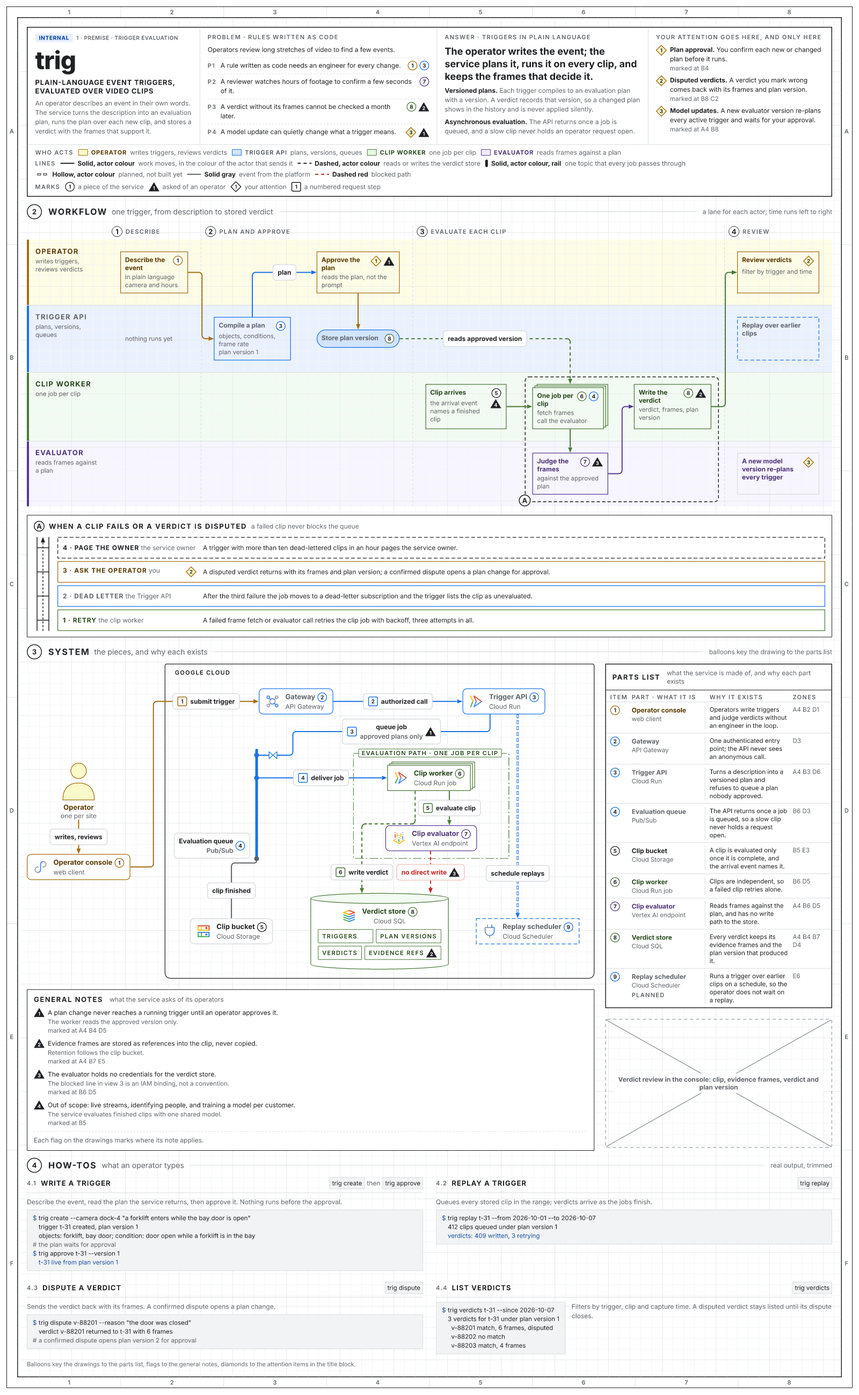
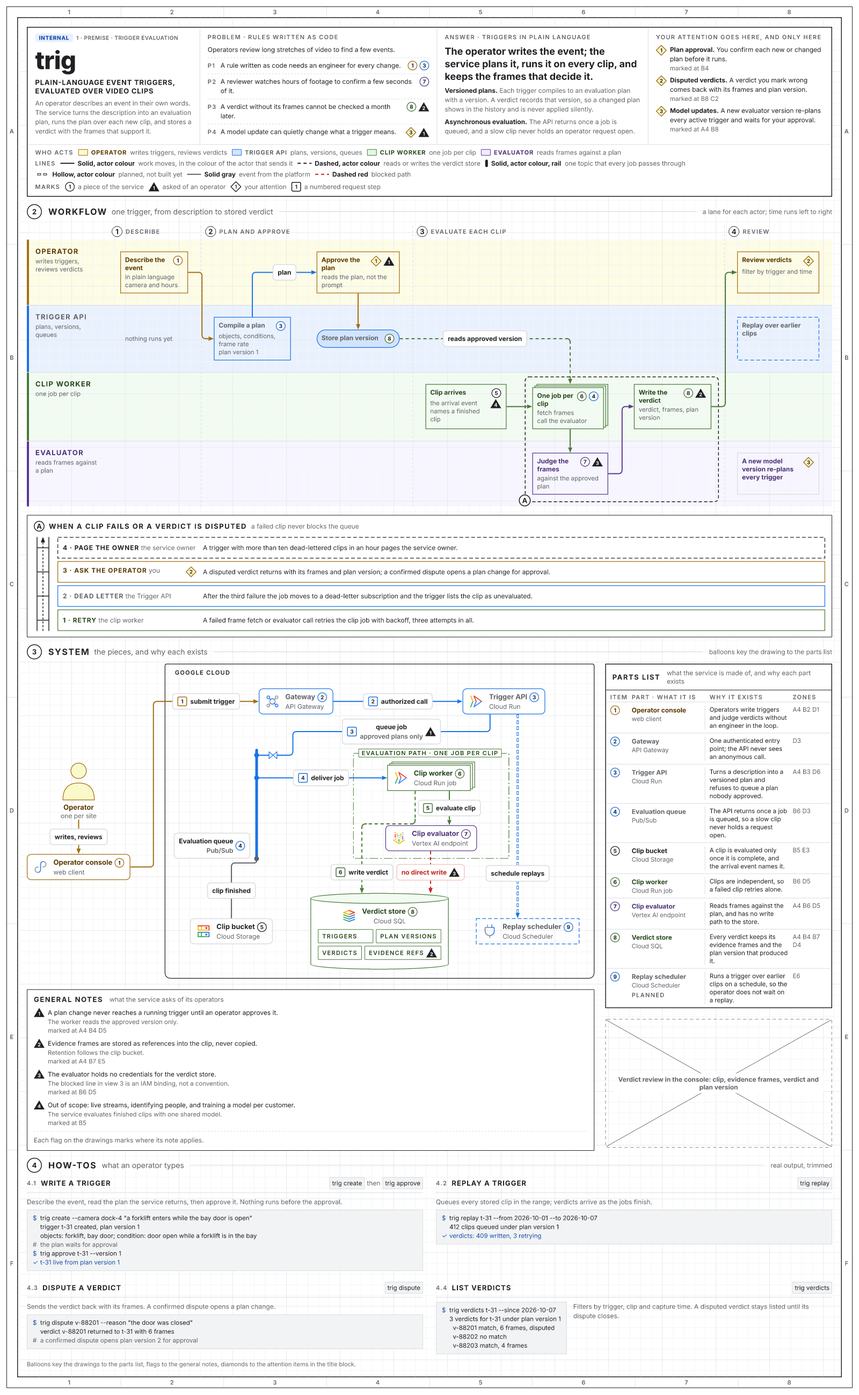
fix(render): mark a terminal's ok lines so they read apart from output in every theme (#93)

diff --git a/crates/stencil-render/tests/how_to_paint.rs b/crates/stencil-render/tests/how_to_paint.rs
@@ -92,6 +92,7 @@ fn assert_first_item_paint(theme: &Theme, svg: &str, label: &str) -> usize {
         ),
         ("#", terminal.comment.as_str()),
         ("the plan waits for approval", terminal.comment.as_str()),
+        ("\u{2713}", terminal.prompt.as_str()),
         ("t-31 live from plan version 1", terminal.prompt.as_str()),
     ];
     for (content, ink) in expected {
@@ -99,11 +100,11 @@ fn assert_first_item_paint(theme: &Theme, svg: &str, label: &str) -> usize {
     }
     let prompts = common::children_named(item, "text")
         .into_iter()
-        .filter(|text| matches!(text.text(), Some("$" | "#")))
+        .filter(|text| matches!(text.text(), Some("$" | "#" | "\u{2713}")))
         .count();
     assert_eq!(
-        prompts, 3,
-        "{label}: two commands and one comment draw a prompt"
+        prompts, 4,
+        "{label}: two commands, one comment and one ok line draw a prompt"
     );
     expected.len()
 }
@@ -160,11 +161,59 @@ fn terminal_lines_take_the_ink_of_their_kind() {
         let svg = render_svg(&page, &theme, &geometry).unwrap().svg;
         examined += assert_first_item_paint(&theme, &svg, name);
     }
-    assert_eq!(examined, 36);
+    assert_eq!(examined, 39);
+}
+
+/// Each line kind of a terminal draws its own prefix before its text, so the kinds read
+/// apart without colour: under wire an ok line and an output line share one ink.
+#[test]
+fn every_terminal_kind_draws_its_own_prefix_in_every_theme() {
+    let document: Value =
+        serde_json::from_str(include_str!("../../../examples/onepager.json")).unwrap();
+    let lines = document["body"][2]["children"][0]["items"][0]["terminal"]
+        .as_array()
+        .unwrap();
+    let page = onepager();
+    let geometry = common::layout_with_fixed_metrics(&page);
+    let mut examined = 0;
+    for name in ["center", "dusk", "wire"] {
+        let theme = common::theme(name);
+        let svg = render_svg(&page, &theme, &geometry).unwrap().svg;
+        let xml = common::parse_xml(&svg);
+        let texts = common::children_named(common::group(&xml, FIRST_ITEM), "text");
+        let x = |text: &roxmltree::Node<'_, '_>| -> f32 {
+            text.attribute("x").unwrap().parse().unwrap()
+        };
+        let mut prefixes = std::collections::BTreeSet::new();
+        for line in lines {
+            let content = line["text"].as_str().unwrap();
+            let drawn = texts
+                .iter()
+                .find(|text| text.text() == Some(content))
+                .unwrap_or_else(|| panic!("{name}: no line {content:?}"));
+            let prefix: String = texts
+                .iter()
+                .filter(|text| text.attribute("y") == drawn.attribute("y") && x(text) < x(drawn))
+                .filter_map(|text| text.text())
+                .collect();
+            prefixes.insert((line["kind"].as_str().unwrap(), prefix));
+            examined += 1;
+        }
+        let expected = [
+            ("command", "$"),
+            ("comment", "#"),
+            ("ok", "\u{2713}"),
+            ("output", ""),
+        ]
+        .map(|(kind, prefix)| (kind, prefix.to_string()));
+        assert_eq!(prefixes, expected.into_iter().collect(), "{name}");
+    }
+    assert_eq!(examined, 18);
 }
 
 /// A theme without the terminal role fills the terminal and chips with the fact fill and
-/// draws commands and ok lines in the primary ink and comments in the secondary ink.
+/// draws commands and ok lines, with their prompts, in the primary ink and comments in the
+/// secondary ink.
 #[test]
 fn a_theme_without_the_terminal_role_draws_the_derived_colours() {
     let page = onepager();
@@ -187,7 +236,7 @@ fn a_theme_without_the_terminal_role_draws_the_derived_colours() {
     );
     assert_eq!(
         assert_first_item_paint(&theme, &svg, "derived"),
-        12,
+        13,
         "the derived role paints as a set one"
     );
 }
@@ -231,6 +280,7 @@ fn how_to_part_keys_follow_the_run_and_line_they_draw() {
             "terminal_prompt/0",
             "terminal_prompt/3",
             "terminal_prompt/4",
+            "terminal_prompt/5",
         ]
     );
 }

diff --git a/crates/stencil-layout/tests/how_to.rs b/crates/stencil-layout/tests/how_to.rs
@@ -171,7 +171,7 @@ fn how_tos_number_through_their_view() {
 }
 
 /// The command line reads left to right as chip, words, chip on one row, right of the
-/// title, each chip's text inside its chip; a prompt stands on the command and comment
+/// title, each chip's text inside its chip; a prompt stands on the command, comment and ok
 /// lines only, every line starts in one column and an indented line further in.
 #[test]
 fn the_heading_and_terminal_lie_as_drawn() {
@@ -207,14 +207,15 @@ fn the_heading_and_terminal_lie_as_drawn() {
 
     let prompts = parts(PartName::TerminalPrompt);
     let lines = parts(PartName::TerminalLine);
-    assert_eq!((prompts.len(), lines.len()), (2, 5));
+    assert_eq!((prompts.len(), lines.len()), (3, 5));
     let prompt_texts: Vec<&str> = prompts
         .iter()
         .map(|prompt| prompt.text.as_ref().unwrap().text.as_str())
         .collect();
-    assert_eq!(prompt_texts, ["$", "#"]);
+    assert_eq!(prompt_texts, ["$", "#", "\u{2713}"]);
     assert_eq!(prompts[0].bounds.y, lines[0].bounds.y);
     assert_eq!(prompts[1].bounds.y, lines[3].bounds.y);
+    assert_eq!(prompts[2].bounds.y, lines[4].bounds.y);
     let column = lines[0].bounds.x;
     for (index, line) in lines.iter().enumerate() {
         assert!(inside(&terminal.bounds, &line.bounds), "line {index}");
@@ -226,7 +227,12 @@ fn the_heading_and_terminal_lie_as_drawn() {
         lines[2].bounds.x > column + 1.0,
         "an indented line starts further in"
     );
-    assert!(prompts[0].bounds.right() <= column);
+    for prompt in &prompts {
+        assert!(
+            prompt.bounds.right() <= column,
+            "a prompt ends before the text column"
+        );
+    }
 }
 
 /// With beside, the terminal stands at its widest line and the text wraps right of it.

diff --git a/crates/stencil-render/src/describe.rs b/crates/stencil-render/src/describe.rs
@@ -1825,8 +1825,9 @@ struct Span<'t> {
 }
 
 /// A terminal in a fenced `text` block one backtick longer than its longest backtick run,
-/// at least three. A line is written raw after its kind's prefix (`$ `, `# `, two spaces,
-/// `ok `) and two spaces per indent level, so its first two characters give its kind.
+/// at least three. A line is written raw after the prompt its kind draws and a space (two
+/// spaces for an output line, which draws none) and two spaces per indent level, so its
+/// first two characters give its kind.
 fn terminal_fence(lines: &[stencil_model::TerminalLine]) -> String {
     let lines: Vec<&stencil_model::TerminalLine> = lines
         .iter()
@@ -1840,14 +1841,9 @@ fn terminal_fence(lines: &[stencil_model::TerminalLine]) -> String {
     let fence = "`".repeat((longest_run + 1).max(3));
     let mut text = format!("{fence}text");
     for line in lines {
-        let prefix = match line.kind {
-            stencil_model::TerminalKind::Command => "$ ",
-            stencil_model::TerminalKind::Comment => "# ",
-            stencil_model::TerminalKind::Output => "  ",
-            stencil_model::TerminalKind::Ok => "ok ",
-        };
         text.push('\n');
-        text.push_str(prefix);
+        text.push_str(line.kind.prompt().unwrap_or(" "));
+        text.push(' ');
         text.push_str(&"  ".repeat(usize::from(line.indent)));
         text.push_str(&line.text);
     }

diff --git a/crates/stencil-model/src/document.rs b/crates/stencil-model/src/document.rs
@@ -944,8 +944,8 @@ fn is_zero_indent(indent: &u8) -> bool {
     *indent == 0
 }
 
-/// A command line draws a `$` prompt and a comment line a `#` prompt before its text.
-/// Output and ok lines draw none and are told apart by colour.
+/// A command line draws a `$` prompt, a comment line a `#` and an ok line a `✓` before its
+/// text. An output line draws none.
 #[derive(Debug, Clone, Copy, PartialEq, Eq, Hash, Serialize, Deserialize, JsonSchema)]
 #[serde(rename_all = "lowercase")]
 pub enum TerminalKind {
@@ -973,12 +973,14 @@ impl TerminalKind {
         }
     }
 
-    /// The prompt drawn before the line: `$` for a command, `#` for a comment.
+    /// The prompt drawn before the line: `$` for a command, `#` for a comment, `✓` for an
+    /// ok line.
     pub fn prompt(self) -> Option<&'static str> {
         match self {
             TerminalKind::Command => Some("$"),
             TerminalKind::Comment => Some("#"),
-            TerminalKind::Output | TerminalKind::Ok => None,
+            TerminalKind::Ok => Some("\u{2713}"),
+            TerminalKind::Output => None,
         }
     }
 }

diff --git a/crates/stencil-render/src/palette.rs b/crates/stencil-render/src/palette.rs
@@ -758,8 +758,8 @@ pub const CHIP_BORDER_PX: f32 = 1.0;
 pub const TERMINAL_BORDER_PX: f32 = 1.0;
 
 /// The ink of a terminal line of `kind`, and of its prompt: a command and an output line in
-/// the text ink, an ok line and a command's `$` in the prompt ink, a comment and its `#` in
-/// the comment ink.
+/// the text ink, an ok line with its `✓` and a command's `$` in the prompt ink, a comment
+/// and its `#` in the comment ink.
 pub fn terminal_ink(kind: stencil_model::TerminalKind, prompt: bool) -> SheetInk {
     use stencil_model::TerminalKind;
     match (kind, prompt) {

diff --git a/crates/stencil-model/src/theme.rs b/crates/stencil-model/src/theme.rs
@@ -492,7 +492,7 @@ pub struct TerminalRole {
     pub fill: Color,
     /// Command and output lines, and command chip text. Derived: ink.primary.
     pub text: Color,
-    /// The `$` prompt and ok lines. Derived: ink.primary.
+    /// The `$` prompt, and ok lines with their `✓`. Derived: ink.primary.
     pub prompt: Color,
     /// Comment lines and their `#` prompt. Derived: ink.secondary.
     pub comment: Color,

diff --git a/docs/SPEC.md b/docs/SPEC.md
@@ -4836,7 +4836,7 @@ pub enum PipeEndSide { Start, End }
 16. Marks and keyed lists. On a sheet the units continue, after the attention items, lanes and phases, with each part and general note in body order (entries, named by the part's name, its node's name when it is keyed by `node`, and by the note's text), then one Mark unit per glyph a carrier draws: problem points in order, then body nodes, then links. A carrier's glyph parts (`Balloon`, `Flag`, `Diamond`) pair in drawn order with its marks as `PageMarks` lists them (crates/stencil-model/src/marks.rs): a part's balloon on its `node` first (pointer `/…/parts/<i>/node`), then `marks/<k>`, then `corner_mark`, then the marks of each `lines` entry. A mark unit's name is `<glyph> <n> <key name>` (`balloon 1 Operator console`), its zone `sheet_zone_at` the glyph's centre, and its key the entry it names. A carrier whose glyph count differs from its mark count is listed in `mark_mismatches` and its unpaired glyphs and marks are not units. The figure paragraph counts `<c> marks` after the entries, and its references sentence ends `; a Zones cell lists the cells of every balloon, flag or diamond keyed to its entry.` The writer adds: a Marks column to the problem points table and, before Pointer, to every Lines table on a sheet, each mark written `<unit name> <spans>` and joined by `; ` (`none` for no mark); the attention table as `Mark | Item | Actor | Zones | Pointer` (`diamond <n>`, the item, its actor, its where-used cells); one nested `- Mark <unit name> <spans>` line per mark under its Item, Box or Step outline line, a Step line's marks nested under that line; after the legend table `Mark kinds: <text> (<glyph>, <list>); ...` for each kind the page draws, the text from `sheet.marks` or the default word; a PartsList outline line `<title>: <note>.` with a `### Parts list` table `Part | Name | What | Why | Actor | Zones | Pointer` after the View's outline; a GeneralNotes outline line with one nested `Note <n> (<id>): <text> <detail> Zones <cells>.` line per note and its spans, then `Foot: <foot>`. `ENTRY_PARTS` gives an attention item `AttentionDiamond`, `AttentionLead` and `AttentionText`, a part `PartBalloon`, `PartTitle` and `PartWhy`, a note `NoteFlag` and `NoteText`. `description-covers-drawing` also reports `draws <g> mark glyphs for <m> marks` at a carrier and `where-used reads "<w>", marks at <z>` at a key whose drawn where-used text differs from its cells; a name in a list-valued cell may escape its semicolons. Tests: `a_where_used_text_or_a_missing_glyph_is_a_defect`, and `every_entry_part_is_drawn_once_per_entry` over all five lists.
 17. Assembly surfaces. An outlined Item's outline line adds `, outline <store|person|stack>` after its kind fields, and an Item or Box with `planned` ends its fields with `, planned`; a store's compartments follow its facts as nested lines `Compartment <text>.`, each with its marks nested under it, and the Item's own mark lines leave compartment marks out. The parts list's Name cell adds `, planned` for a part whose node is planned. In the Lines table a Link or Pipe with `step` opens its Line cell with `step <n>: `; a rail's Kind is `pipe v, rail`, its From cell `rail` and then `; in from <name> (<id>)` for each link that ends on it and its To cell `rail; out to <name> (<id>)` for each link that leaves it, in link order, and its Ends `no arrowheads`; a link end on a rail reads `dot start` or `dot end` in the Ends cell beside its arrowheads, and a valve adds `, valve before the end`. A planned line's Style cell names it `, planned` before the colour word. The Legend table's Key adds `-rail` and `-planned` (section 14.5 rule 7), and on a sheet that draws a step badge the `Mark kinds:` line ends with `<text> (step badge, numbered lines)`, the text `sheet.marks.step` or `step`. A step badge, a valve, a rail dot and a hop are parts of their link's unit and add no unit of their own; compartment marks are mark units like any carrier's, at `/…/compartments/<j>/marks/<k>`.
 18. Ladders. A Ladder and each of its rungs are node units, the rung named by its title and its zone the rung's bounds. The Ladder's outline line reads `Ladder, detail <letter>: <title>; <note>. Frames <step titles>.` with its spans, and one nested line per rung from rung 1: `Rung <n>[ (bottom)| (top)] <title>[, <who>][; actor <name>][; planned]: <text>` with its spans and its marks nested under it; a ladder of one rung marks neither end. The Phases line adds `; detail <letter> frames <step titles>` for each ladder that frames its Steps. A ladder that sets `rung_fill` adds `; rung fill <fill>` after its note. The frame, tag and letter are parts of the Phases node, so they add no unit.
-19. How-tos. A HowTo draws no part and is a structural pointer, written on the outline line `How-to column.`; each item is a node unit named by its title. The items follow the outline of their View as sections: `### How-to <number>: <title>` with its spans, the number read from the drawn `HowToNumber`; a list of `Command <text>.` per chip and `Words <text>.` per word run in drawn order; `Text beside the terminal.` when `beside` is set; the text; and the terminal in a fenced `text` block one backtick longer than the longest backtick run of its lines, at least three, one line per terminal line: a command after `$ `, a comment after `# `, an output line after two spaces and an ok line after `ok `, then two spaces per `indent` level and the line raw. `description-covers-drawing` skips the fence.
+19. How-tos. A HowTo draws no part and is a structural pointer, written on the outline line `How-to column.`; each item is a node unit named by its title. The items follow the outline of their View as sections: `### How-to <number>: <title>` with its spans, the number read from the drawn `HowToNumber`; a list of `Command <text>.` per chip and `Words <text>.` per word run in drawn order; `Text beside the terminal.` when `beside` is set; the text; and the terminal in a fenced `text` block one backtick longer than the longest backtick run of its lines, at least three, one line per terminal line: the prompt its kind draws (`TerminalKind::prompt`) and a space, so a command after `$ `, a comment after `# ` and an ok line after `✓ `, an output line after two spaces, then two spaces per `indent` level and the line raw. `description-covers-drawing` skips the fence.
 
 ### 14.2 Sheet model
 
@@ -5033,7 +5033,7 @@ pub struct HowToItem {
 pub enum CommandRun { Chip(String), Words(CommandWords) }
 pub struct CommandWords { pub words: String }
 pub struct TerminalLine { pub kind: TerminalKind, pub indent: u8, pub text: String } // indent 0..=8, skipped at 0
-pub enum TerminalKind { Command, Output, Comment, Ok }   // command draws `$`, comment `#`
+pub enum TerminalKind { Command, Output, Comment, Ok }   // command draws `$`, comment `#`, ok `✓`
 ```
 
 9. `HowTo` is the nineteenth `Node` tag; its items are geometry nodes at `/…/items/<i>`. `SheetList` gains `how-to-items` (1 to 6, pointer `items`), `command-runs` (0 to 5, `commands`) and `terminal-lines` (0 to 12, `terminal`), so nine lists report `list-empty`. `SheetSurface::HowTo` (`how-to`, the node, traced by its `HowTo` node; topic `howto`) names `Tag("HowTo")` and `Definition("TerminalKind")`. `text_fields` reads each item's title, its chip texts at `/…/commands/<k>` and word runs at `/…/commands/<k>/words`, its text, then each terminal line's text, so the text rules hold for all of them and a terminal line's indent is a field, never leading space.
@@ -5135,7 +5135,7 @@ Flat only. Sizes are named constants in `crates/stencil-layout/src/build/sheet.r
 28. Sheet lines. On a sheet each link's tag is placed after every route is known, longest leg first, on a straight run that keeps one dash period plus 4 px (`bend_keep_out`: the corner radius plus 15) from every bend and 12 px from either end, clear of nodes that are not its endpoints' ancestors, of earlier tags and valves, of other links' legs and 6 px from every Box outline; a link whose legs hold no such run has one leg moved by 4 to 64 px and is placed again. Ends of several links on one side of one node spread along it at `(k + 1) / (n + 1)` in the order of what they face, and the far end of a facing pair lines up with the spread end so the link runs straight. A leg of a later link that runs within 4 px along a leg of an earlier one, or any leg that runs within 12 px along a Box outline, moves 10, 20 or 30 px across when the moved route stays clear. Zones that hold neither end of a link are obstacles of its route.
 29. Detail ladders. A Ladder is a column with a 1 px border, padding 10, 12 and 11: a heading row (gap 8) of `DetailTag`, a 20 px circle holding `DetailLetter` (`view_numeral`, A plus the Ladder's index among the page's Ladders in body order), `Title` (`list_title`) and `Note` (`view_note_small`); 10 below it the rungs, from the last at the top to rung 1 at the bottom, 5 apart, each a row of a 34 px rail column and, 10 after it, the `Rung` node. The rungs grow to fill a ladder stretched by its parent. `RailLeft` and `RailRight` (1.5 px, centred 6 and 28 into the rail column) and `EscalationArrow` (an arrowhead wide, centred 17 in) run from the top of the top rung to the bottom of rung 1; `RungTick/<i>` joins the rails at rung i's middle. A Rung (`Front`, its own box) is a row, min height 40, padding 6 by 10, gap 12, centred: a title column holding a lead run (rule 9) of `RungTitle` (`rung_title`, `<n> · <title>`) and `RungWho` (`rung_who`), or the title alone without `who`, and the rung's marks; then `RungText` (`block_body`). The title column is one width for every rung of the Ladder (`plan_ladders`, before the tree is built): the widest title with its who and marks on one line, plus 1, clamped to 158 and 280. `rung_title` with `rung_who` is the second lead-run pair. `rung_fill` takes `StepFill`'s values with a Phases node's semantics: a planned rung draws none, and every fill keeps the rung's outline in its actor's wire, so no fill hides text and no vet rule like `step-text-fill` applies. Geometry order puts each Ladder's rungs right after it, rung 1 first, each a child of the Ladder.
 30. Detail frames. After the sheet frame and before routing, `add_detail_frames` adds to the Phases node that holds each Ladder's `around` Steps a `DetailFrame` (their union grown 14, `DETAIL_FRAME_GROW_PX`: an arrowhead's length and 4 px, so a line into a framed Step crosses the frame on its shaft), a `DetailTag` (a circle of radius 11 centred on the frame's bottom-left corner, moved inside the node) and its `DetailLetter`. Lanes keep 22 px above and below their Steps, so a frame stands 8 px inside its lane's edge. The tag is a label box of the Phases node, so a route runs around it. `label_boxes` returns nothing for a Ladder or a Rung; `obstacle_box` returns a Ladder's bounds and None for a Rung.
-31. How-tos. Before the tree is built, `plan_how_tos` (crates/stencil-layout/src/how_to.rs) measures each HowTo's widest item: the number, the title's widest word, the command line, and the terminal at its widest line (the prompt column, the wider of `$` and `#` plus a space, then two spaces per indent level, then the text, inside padding 6, 10, 7 and a 1 px border), plus 12 and 160 for text set beside it. A row holds the most items that fit the sheet's content width (`canvas_width` less the root padding) 24 apart, and rows are then balanced, so four items that fit three to a row lie two and two (`columns_for`). The HowTo is a grid of that many equal tracks, `minmax(0, 1fr)`, 24 by 20 apart, and draws no part. An item (`HowToItem`) is a column: a heading row (gap 8, centred) of `HowToNumber` (`sheet_label`, `<view>.<n>`, n counting the items of every HowTo in the View), `HowToTitle` (`how_to_title`, growing and wrapping) and the command line, its runs 4 apart, a chip a `CommandChip` (1 px border, padding 2 by 4) holding `CommandText` (`terminal_text`) and words a `CommandWord` (`view_note_small`); then `HowToRule`, 1 px, 6 below the heading and 8 above the body. The body is `HowToText` (`block_body`) 6 above the `Terminal`, which stretches to the item; with `beside` it is a row, gap 12, of the terminal at its widest line and the text growing from 160. Each terminal line is a row of a prompt column holding `TerminalPrompt` (command and comment lines only) and `TerminalLine`, indented by its levels. Command runs, prompts and terminal lines never wrap (`TextLeaf::wraps`): measured with no width in layout and after it, and their boxes may shrink below their runs, so a line or a command line that does not fit draws past its box and `text-fits-box` reports it at the item. The measured JSON numbers a chip, its text and a word run by the run's index and a prompt by its line's.
+31. How-tos. Before the tree is built, `plan_how_tos` (crates/stencil-layout/src/how_to.rs) measures each HowTo's widest item: the number, the title's widest word, the command line, and the terminal at its widest line (the prompt column, the widest of `$`, `#` and `✓` plus a space, then two spaces per indent level, then the text, inside padding 6, 10, 7 and a 1 px border), plus 12 and 160 for text set beside it. A row holds the most items that fit the sheet's content width (`canvas_width` less the root padding) 24 apart, and rows are then balanced, so four items that fit three to a row lie two and two (`columns_for`). The HowTo is a grid of that many equal tracks, `minmax(0, 1fr)`, 24 by 20 apart, and draws no part. An item (`HowToItem`) is a column: a heading row (gap 8, centred) of `HowToNumber` (`sheet_label`, `<view>.<n>`, n counting the items of every HowTo in the View), `HowToTitle` (`how_to_title`, growing and wrapping) and the command line, its runs 4 apart, a chip a `CommandChip` (1 px border, padding 2 by 4) holding `CommandText` (`terminal_text`) and words a `CommandWord` (`view_note_small`); then `HowToRule`, 1 px, 6 below the heading and 8 above the body. The body is `HowToText` (`block_body`) 6 above the `Terminal`, which stretches to the item; with `beside` it is a row, gap 12, of the terminal at its widest line and the text growing from 160. Each terminal line is a row of a prompt column holding `TerminalPrompt` (command, comment and ok lines; an output line leaves it empty) and `TerminalLine`, indented by its levels. Command runs, prompts and terminal lines never wrap (`TextLeaf::wraps`): measured with no width in layout and after it, and their boxes may shrink below their runs, so a line or a command line that does not fit draws past its box and `text-fits-box` reports it at the item. The measured JSON numbers a chip, its text and a word run by the run's index and a prompt by its line's.
 
 ### 14.5 Paint
 
@@ -5240,7 +5240,7 @@ pub struct SheetGrid { pub minor: Color, pub major: Color }
 
 8. Marks. `SheetRole` gains `mark_ink`, derived from `ink.primary`; the six designed themes set it to their primary ink, `cue/theme.cue` mirrors it and `validate_theme` checks its format. A balloon fills `sheet.cell` with a 1.3 px stroke in its key's actor wire, else `sheet.mark_ink`; a flag fills `sheet.mark_ink` with no stroke and its numeral in `sheet.cell`; a diamond fills its key's actor fill, else `sheet.cell`, with a 1.4 px stroke in the actor's wire, else `sheet.mark_ink`; balloon and diamond numerals take `ink.primary`. The key's actor is a part's (its node's for a part keyed by `node`) or an attention item's, never the carrier's (`SheetInk::KeyWire` and `KeyFill`). List glyphs and strip samples paint as these, a sample as unowned. A part's title takes its actor's ink, else `ink.primary`; what and note details `ink.secondary`; why and note texts `ink.primary`; captions, header cells, the planned word, the foot and where-used text `sheet.label_ink`. The parts list strokes `sheet.frame` at 1.5 px and the general notes at 1 px, both on `sheet.cell`; the title rule is `sheet.frame`, row and why rules `sheet.rule`, the foot rule dashed `3 3`. A flag is a path and a diamond a path; `wire_paints_only_white_fills_and_two_inks` allows one white text, a flag's numeral, inside a flag's box. `actor_wires_stand_apart_from_deny_and_sheet_chrome` holds every wire 20 from `sheet.mark_ink` too.
 9. Assembly paint. Every bend and hop of a patterned or planned sheet line is drawn: the line is cut into runs at each joint, an interval reaching 3.5 px (`JOINT_REACH_PX`) along the straight on both sides of a bend or hop, and a joint is drawn solid while the run after it starts in a gap, so each turn reads as one dash turning the corner under any dash phase. A planned line is solid and drawn hollow: each run twice, a casing in the line's wire 2 px wider than its role's width dashed 7 4, and a core in `sheet.paper` at the role's width dashed 5 6 and offset 1, so every dash is a closed outline and reads apart from a dashed line; its joints draw both strokes solid. A planned Item or Box draws its outline dashed in its wire with no fill. A store's lid takes `tint.fill`. The tab and valve fill with `sheet.paper`, so under wire the paper core of a planned line is the one white stroke. A rail draws in its line's wire at 5 px; a rail legend sample is a vertical bar 14 high and a planned sample the casing and core over the sample's length. A planned sample draws the most whole 7 4 dashes that fit its swatch, centred, so it ends on no partial dash. A planned entry is named by what it draws: `planned_label` turns the leading `Solid` of the canonical and drawn labels into `Hollow` (`Hollow, actor colour`, `Hollow blue`, `Hollow line, by actor` under wire), and a rail adds `, rail`; the description Key stays `<key>-planned`, as a band keys `-band`. A patterned run shorter than 1 px, left where a line leaves right beside a joint, is not drawn. Headings on outlines (person titles, compartment text, tab text) take `tint.ink`, which section 14.5 rule 2's rows already cover, so the theme reports gain no row.
-10. Terminal. `Theme` gains `terminal: Option<TerminalRole>`, resolved by `Theme::terminal_colors`: `fill` (derived `fact.fill`), `text` (`ink.primary`), `prompt` (`ink.primary`) and `comment` (`ink.secondary`). A command and an output line take `terminal.text`, an ok line and a command's `$` `terminal.prompt`, a comment and its `#` `terminal.comment` (`palette::terminal_ink`). The six designed themes set the role; each light paper keeps a light terminal so a how-to reads as part of the sheet, and each dark paper takes its fact fill: center `#F1F3F4`, `#202124`, `#174EA6`, `#5F6368`; paper `#F2F0EB`, `#1F1E1B`, `#2C63CB`, `#58554F`; dusk `#2E3450`, `#E3E7F7`, `#78A2F7`, `#B8C0DD`; clear `#EFF2F5`, `#1A1E24`, `#2A64AB`, `#4B5361`; clear-dark `#262D37`, `#E9EDF2`, `#6AB0FF`, `#A8B1BD`; wire `#FFFFFF` and its two inks, `#222222` for text and prompt and `#555555` for comments, so wire tells an ok line from output by the description only. The imported themes carry no terminal role. Three quality rows follow the mark rows: `terminal.text`, `terminal.prompt` and `terminal.comment` on `terminal.fill` as text, so a theme reports 285 rows; the lowest designed value is 4.82 (dusk's prompt). `cue/theme.cue` mirrors the role, and `validate_theme` checks the colour format of its leaves. Tests: `every_designed_theme_sets_the_terminal_role`, `terminal_lines_take_the_ink_of_their_kind` and `a_theme_without_the_terminal_role_draws_the_derived_colours` in crates/stencil-render/tests/how_to_paint.rs.
+10. Terminal. `Theme` gains `terminal: Option<TerminalRole>`, resolved by `Theme::terminal_colors`: `fill` (derived `fact.fill`), `text` (`ink.primary`), `prompt` (`ink.primary`) and `comment` (`ink.secondary`). A command and an output line take `terminal.text`, an ok line and its `✓` and a command's `$` `terminal.prompt`, a comment and its `#` `terminal.comment` (`palette::terminal_ink`). The six designed themes set the role; each light paper keeps a light terminal so a how-to reads as part of the sheet, and each dark paper takes its fact fill: center `#F1F3F4`, `#202124`, `#174EA6`, `#5F6368`; paper `#F2F0EB`, `#1F1E1B`, `#2C63CB`, `#58554F`; dusk `#2E3450`, `#E3E7F7`, `#78A2F7`, `#B8C0DD`; clear `#EFF2F5`, `#1A1E24`, `#2A64AB`, `#4B5361`; clear-dark `#262D37`, `#E9EDF2`, `#6AB0FF`, `#A8B1BD`; wire `#FFFFFF` and its two inks, `#222222` for text and prompt and `#555555` for comments, so under wire an ok line reads apart from output by its `✓` alone. The `✓` is U+2713 in the bundled Inter Regular, measured like the other prompts, and takes the prompt ink, so the `terminal.prompt` row covers it. The imported themes carry no terminal role. Three quality rows follow the mark rows: `terminal.text`, `terminal.prompt` and `terminal.comment` on `terminal.fill` as text, so a theme reports 285 rows; the lowest designed value is 4.82 (dusk's prompt). `cue/theme.cue` mirrors the role, and `validate_theme` checks the colour format of its leaves. Tests: `every_designed_theme_sets_the_terminal_role`, `terminal_lines_take_the_ink_of_their_kind`, `every_terminal_kind_draws_its_own_prefix_in_every_theme` and `a_theme_without_the_terminal_role_draws_the_derived_colours` in crates/stencil-render/tests/how_to_paint.rs.
 
 ### 14.6 Checks
 

diff --git a/notes/ledger.md b/notes/ledger.md
@@ -77,3 +77,4 @@ Lessons for sessions in this repository. Every rule names what enforces it.
 | 2026-10-22 | A run that must stay on one line (a terminal line, a command chip) needs `TextLeaf::wraps` false: an infinite min-content line only stops the shrink, and a definite width still wraps it, so an overflowing line would wrap out of sight instead of being reported. Its box may shrink below the run, and text-fits-box reports the overflow. | `a_terminal_line_wider_than_its_column_is_a_text_fits_box_defect` and `a_command_line_wider_than_its_item_is_a_text_fits_box_defect` in crates/stencil-layout/tests/how_to.rs |
 | 2026-10-22 | A CUE twin whose message carries no interpolation fails inside its own definition, which CUE evaluates with every optional field absent; the message names a field (`"how-to \(title)"`) so the definition stays incomplete. `cue fmt` realigns unrelated lines of core.cue, so edits there are written by hand. | `cue/check.sh`, which vets every figure on each run; none for the formatting (core.cue is not held to `cue fmt`, and the diff shows the churn) |
 | 2026-10-22 | The design's dark terminal fill in center read as four black slabs on the light sheet: a terminal takes the lightness of its paper, light on a light sheet and the fact fill on a dark one, and its inks are held by the contrast rows. | `every_designed_theme_sets_the_terminal_role` in crates/stencil-render/tests/how_to_paint.rs; the terminal rows of `quality_counts_match_section_13_5_for_every_builtin` |
+| 2026-10-22 | A terminal line kind told apart by colour alone does not read under wire, where output and ok lines share `#222222`; every kind but output draws its own prompt in the prompt column (`$`, `#`, `✓`, U+2713 in the bundled Inter Regular), and the description fence writes the same prompt, read from `TerminalKind::prompt`, so the fence matches the drawing. | `every_terminal_kind_draws_its_own_prefix_in_every_theme` in crates/stencil-render/tests/how_to_paint.rs; `the_heading_and_terminal_lie_as_drawn` in crates/stencil-layout/tests/how_to.rs |

diff --git a/crates/stencil-cli/prime/howto.md b/crates/stencil-cli/prime/howto.md
@@ -4,10 +4,10 @@ A HowTo shows what an operator types: a View child holding 1 to 6 items, numbere
 
 - Heading: the number, the title in capitals, and right of it the command line: up to 5 `commands`, each a string drawn as a chip or {words} drawn as plain text between chips, set on one line.
 - Body: `text` above the terminal, or beside it with `beside: true`, which needs both.
-- Terminal: up to 12 lines, each a `kind` and its text. A command line draws a `$` prompt and a comment a `#`; output and ok lines draw none and are told apart by colour: output in the terminal's text ink, ok in its prompt ink, a comment in its comment ink. `indent` (0 to 8) sets a line in by two spaces a level; the text itself stays trimmed. Lines are Inter Regular, so columns of output do not align.
+- Terminal: up to 12 lines, each a `kind` and its text. A command line draws a `$` prompt, a comment a `#` and an ok line a `✓`, in one column before the text; output draws none, so the kinds read apart in every theme, wire included. Lines also take inks by kind: output in the terminal's text ink, ok in its prompt ink, a comment in its comment ink. `indent` (0 to 8) sets a line in by two spaces a level; the text itself stays trimmed. Lines are Inter Regular, so columns of output do not align.
 - Nothing wraps on the command line or in the terminal. A line wider than its column, or a command line that does not fit beside the title, is a text-fits-box defect: shorten it, or give the HowTo a wider parent.
 - The terminal and chips take the theme's `terminal` role: fill, text, prompt and comment. A theme without it fills with `fact.fill` and draws in the page inks.
-- The description writes each item as a section with its commands, its text and its terminal in a fence, a line led by its kind's prefix.
+- The description writes each item as a section with its commands, its text and its terminal in a fence, a line led by its kind's prompt (`$ `, `# `, `✓ `) or two spaces for output.
 
 {{vocabulary:HowTo,HowToItem,TerminalLine,TerminalKind}}
 

diff --git a/crates/stencil-render/tests/fixtures/onepager.description.md b/crates/stencil-render/tests/fixtures/onepager.description.md
@@ -241,7 +241,7 @@ $ trig create --camera dock-4 "a forklift enters while the bay door is open"
   objects: forklift, bay door; condition: door open while a forklift is in the bay
 # the plan waits for approval
 $ trig approve t-31 --version 1
-ok t-31 live from plan version 1
+✓ t-31 live from plan version 1
 ```
 
 ### How-to 4.2: Replay a trigger `F5-F8` `/body/2/children/0/items/1`
@@ -253,7 +253,7 @@ Queues every stored clip in the range; verdicts arrive as the jobs finish.
 ```text
 $ trig replay t-31 --from 2026-10-01 --to 2026-10-07
   412 clips queued under plan version 1
-ok verdicts: 409 written, 3 retrying
+✓ verdicts: 409 written, 3 retrying
 ```
 
 ### How-to 4.3: Dispute a verdict `F1-F4` `/body/2/children/0/items/2`
